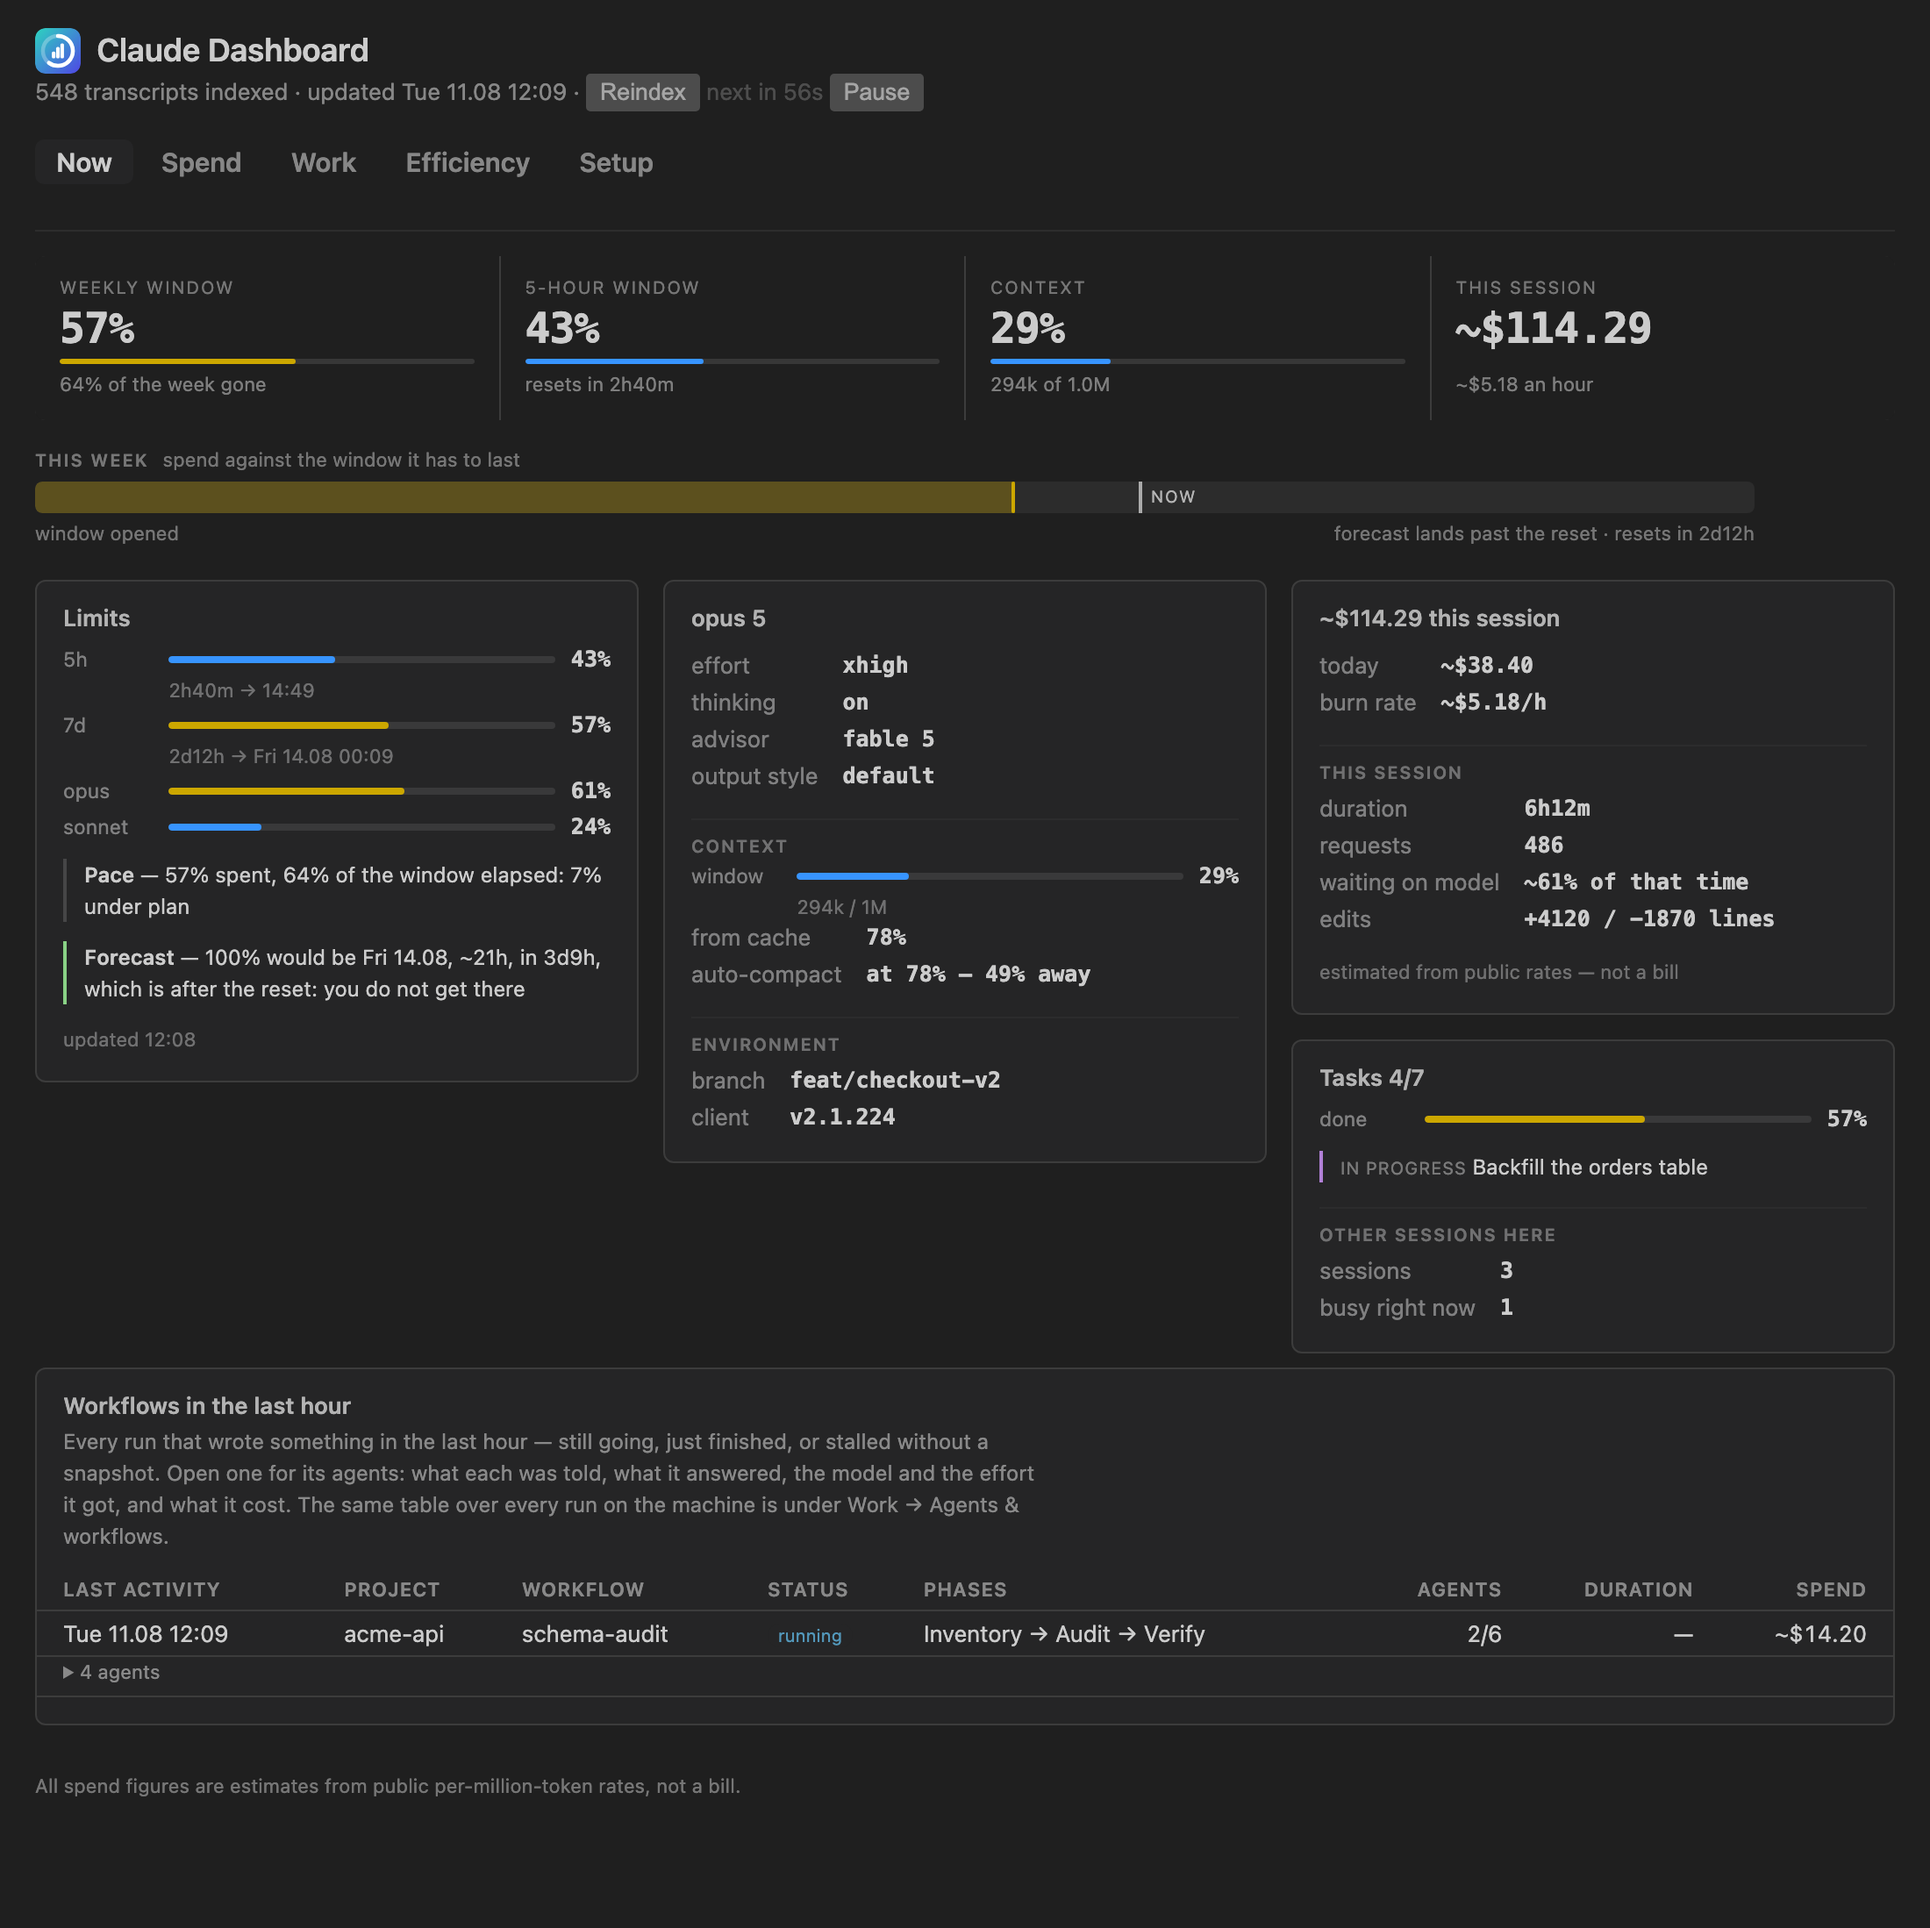
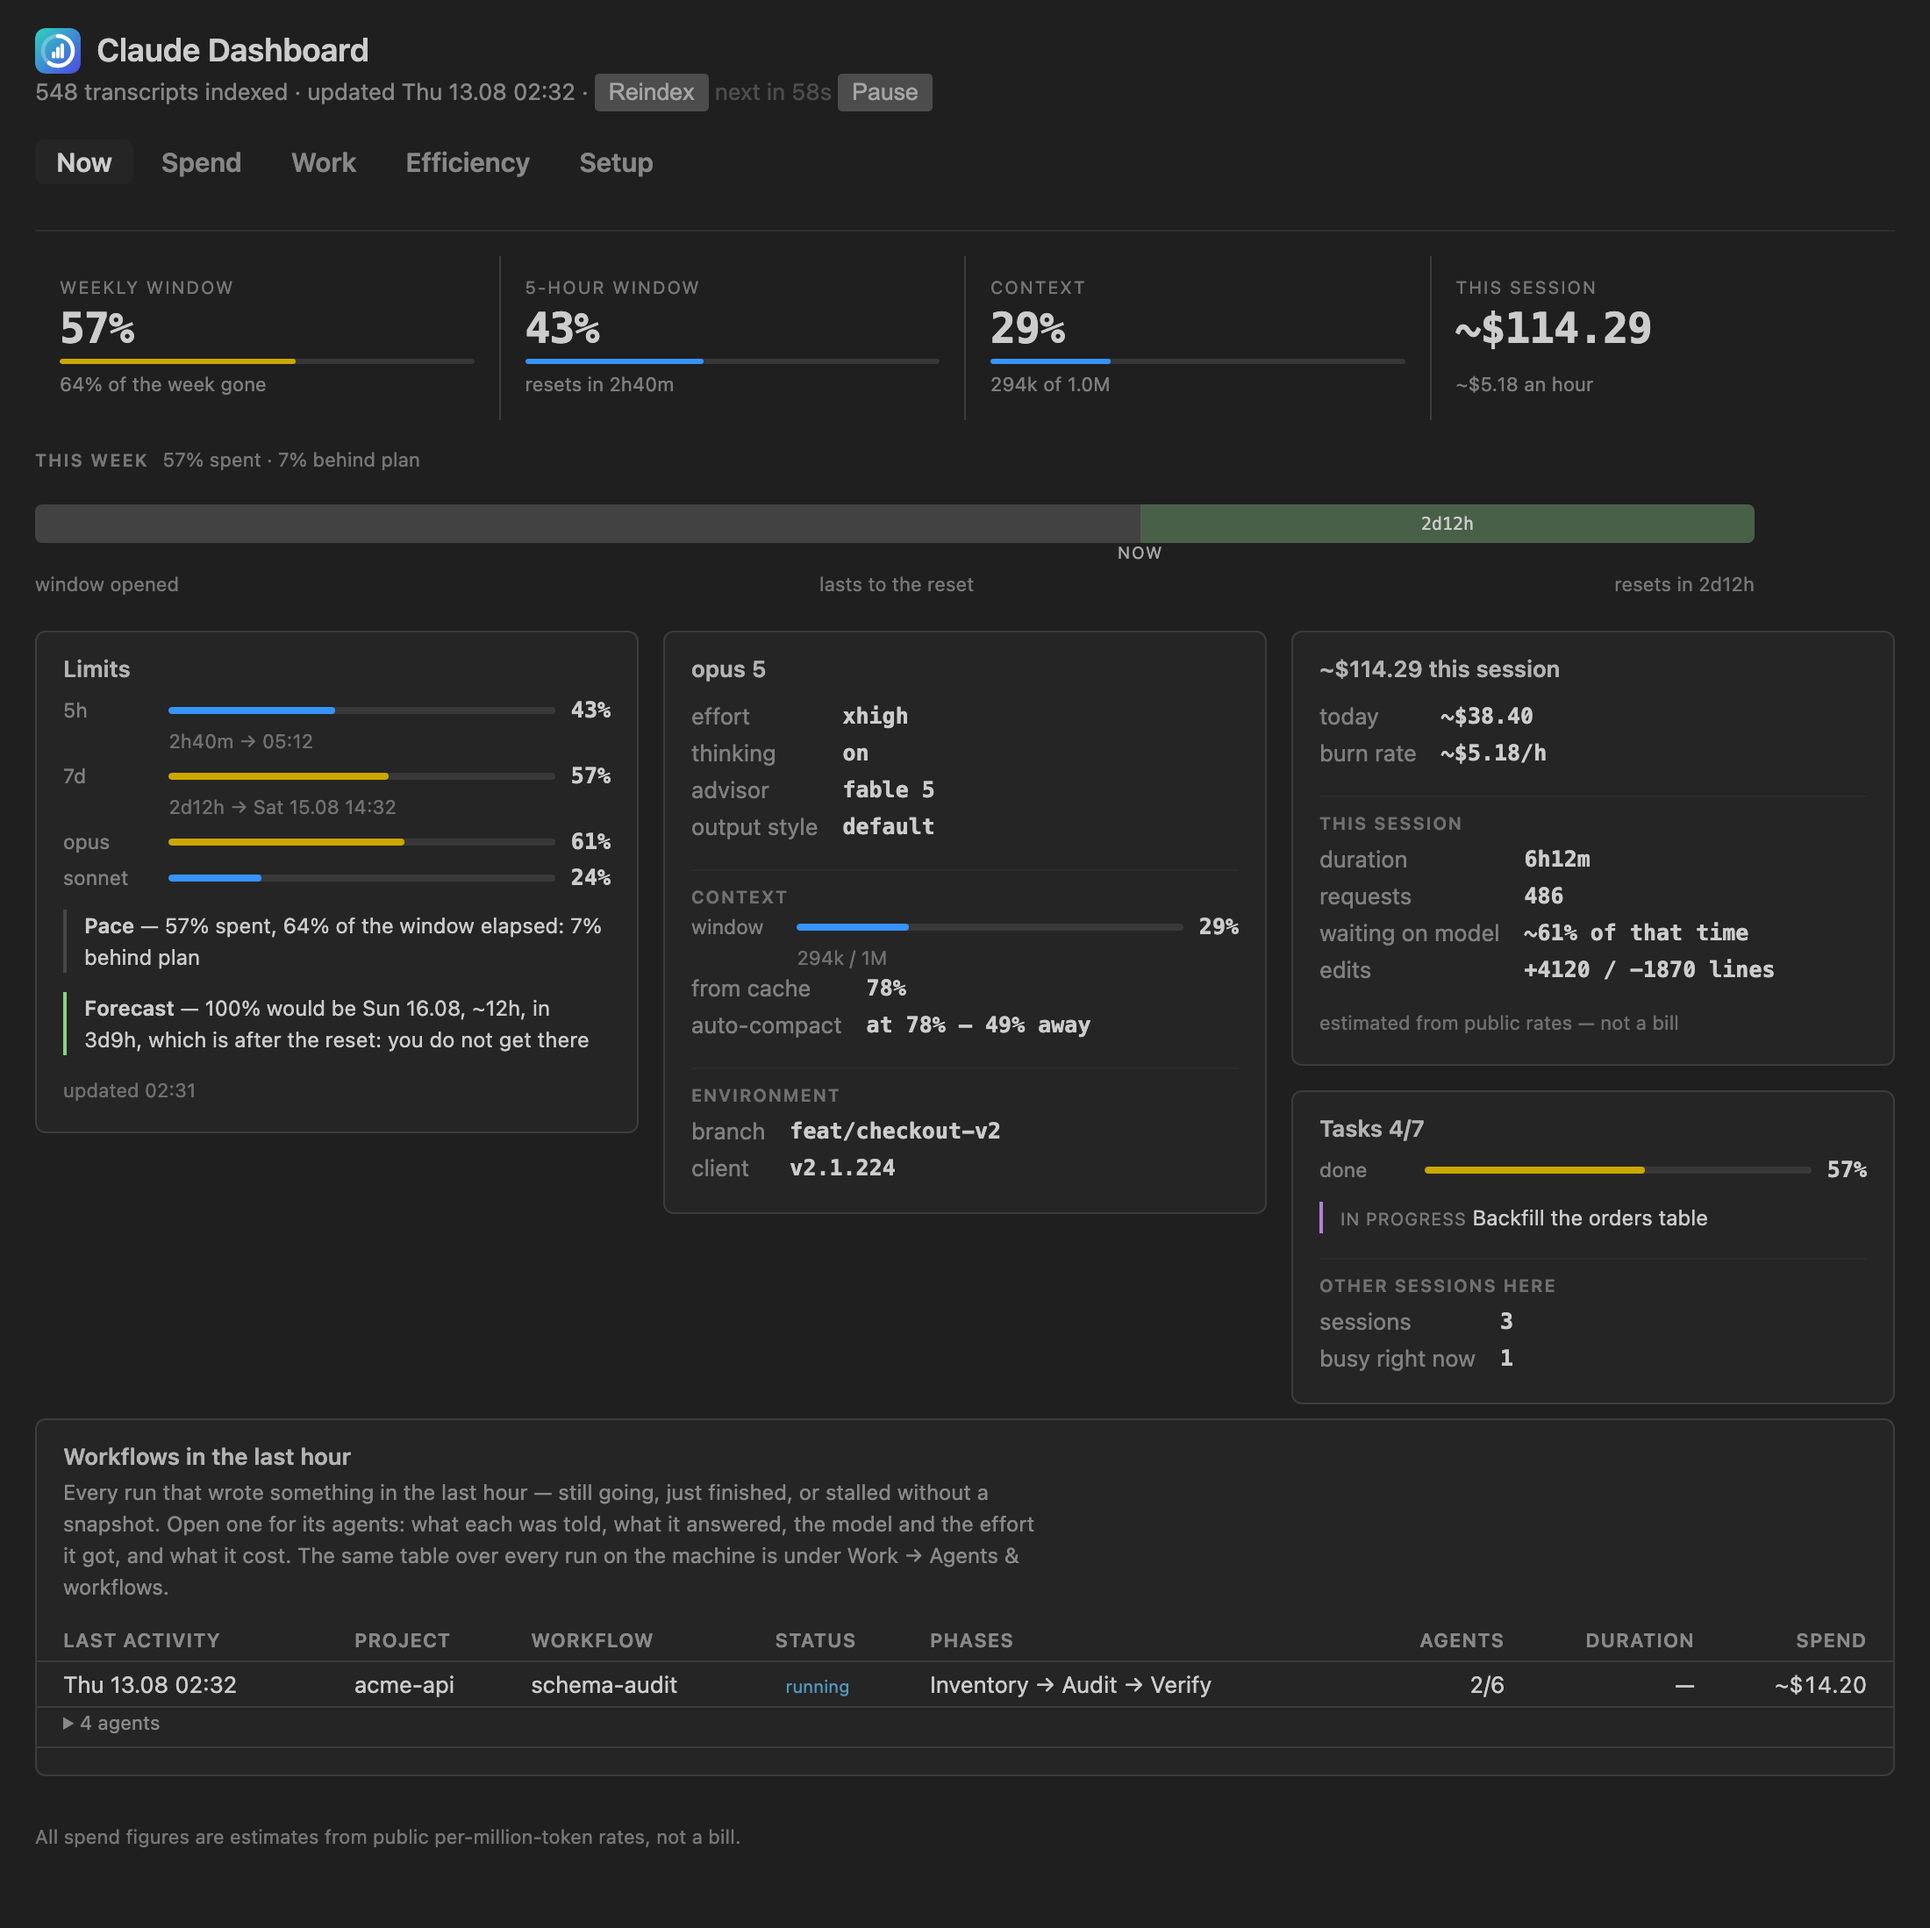
docs: bring the shopfront and the shared vocabulary along with the track
Three things the track change left behind, each of which would have made the
repository state a thing that is no longer true.

README described the week as "a track with spend, now and the forecast on one
line", which is exactly the geometry that was removed, and its Now screenshot
showed it. The picture is retaken from tools/demo-index.js, the only data that
may be photographed for a listing.

The Pace note said "under plan" where the track header says "behind plan". The
verdict is now assembled in two files, so one wording is the whole point.

The hover meter drew its share against a plan of zero, which made every filled
cell hatched — and hatching now means spend past the plan, so a plain share was
claiming an overspend it cannot have. It is drawn against its own percentage
instead, and the test says so rather than just comparing two calls.

diff --git a/extension.js b/extension.js
@@ -70,10 +70,13 @@ function renderSection(section) {
             if (block.rows.length === 0) continue;
             // The meter is the bar the status bar itself draws — same glyphs,
             // same rounding, so a hover never disagrees with the item under it.
+            // Passed its own percentage as the plan, because a meter is a share
+            // and has no plan to be ahead of: with a plan of zero every filled
+            // cell came out hatched, and hatched now means overspend.
             // Three columns, so the head has to be three wide: a row with more
             // cells than the header loses the extras, which here is the reset.
             md.appendMarkdown(table(block.rows.map((r) => [
-                r.label, `\`${u.bar(r.pct, 0)}\` **${r.value}**`, r.note ? `_${r.note}_` : '',
+                r.label, `\`${u.bar(r.pct, r.pct)}\` **${r.value}**`, r.note ? `_${r.note}_` : '',
             ]), ['', '', '']));
         }
         if (block.kind === 'table') {

diff --git a/test/extension.test.js b/test/extension.test.js
@@ -241,7 +241,11 @@ test('a share in the hover is the bar the status bar itself draws', () => {
 
     const lines = md.split('\n');
     const row = lines.find((line) => line.startsWith('| 7d '));
-    assert.ok(row.includes(`\`${u.bar(52, 0)}\``), `the meter is not the bar: ${row}`);
+    // A meter is a share, not a pace, so it is drawn against its own percentage:
+    // against a plan of zero every filled cell is hatched, and hatched means
+    // spend past the plan.
+    assert.ok(row.includes(`\`${u.bar(52, 52)}\``), `the meter is not the bar: ${row}`);
+    assert.ok(!row.includes('▓'), `a share cannot be ahead of anything: ${row}`);
 
     const width = (line) => line.split('|').length - 1;
     lines.forEach((line, i) => {

diff --git a/status.js b/status.js
@@ -62,7 +62,9 @@ function limits(d, h, env) {
         // Pace as a sentence: spend against plan is a comparison, and a
         // comparison squeezed into a row label is what was hard to read.
         const diff = lim.weekly.pct - pc.plan;
-        const verdict = diff > 0 ? `${diff}% ahead of plan` : diff < 0 ? `${-diff}% under plan` : 'exactly on plan';
+        // "behind", not "under": the track header says the same thing in the
+        // same words, and a verdict assembled in two files may not drift.
+        const verdict = diff > 0 ? `${diff}% ahead of plan` : diff < 0 ? `${-diff}% behind plan` : 'exactly on plan';
         blocks.push({
             kind: 'note',
             tone: 'plain',

diff --git a/test/status.test.js b/test/status.test.js
@@ -82,7 +82,7 @@ test('the limits section reads every window and says which side of plan it is on
     assert.equal(metersOf(limits)[2].note, '');
 
     const pace = notes(limits).find((n) => n.label === 'Pace');
-    assert.match(pace.text, /52% spent, 61% of the window elapsed: 9% under plan/);
+    assert.match(pace.text, /52% spent, 61% of the window elapsed: 9% behind plan/);
 
     // The forecast lands past the reset, so it is stated as the reassurance it is.
     const forecast = notes(limits).find((n) => n.label === 'Forecast');

diff --git a/README.md b/README.md
@@ -60,7 +60,7 @@ machine that uses them is the larger half of the bill.
 This extension reads that state and gives it two surfaces: **a status bar you
 write yourself**, and **a dashboard** over every transcript on the machine.
 
-![The Now tab: both limit windows, the week as a track, context, spend, tasks and the agents of a running workflow](media/screenshots/now-dark.png)
+![The Now tab: both limit windows, the week as a track of the time it has left, context, spend, tasks and the agents of a running workflow](media/screenshots/now-dark.png)
 
 <a name="what-you-get"></a><a name="user-content-what-you-get"></a>
 
@@ -220,8 +220,9 @@ answer. A figure that is a share of something is drawn as one rather than only
 written.
 
 **⏱ Now** — the state of Claude as the page was opened: the four numbers that
-decide the next hour as headline tiles, the week as a track with spend, now and
-the forecast on one line, the four status-bar tooltips at full width, and a row
+decide the next hour as headline tiles, the week as a track of time — how long
+the quota still lasts and how long the week runs on without it — the four
+status-bar tooltips at full width, and a row
 per agent of every workflow still running. Those panels are not a copy of the
 tooltips: both are rendered from the same sections in `status.js`, so the page
 cannot fall behind the hover.
